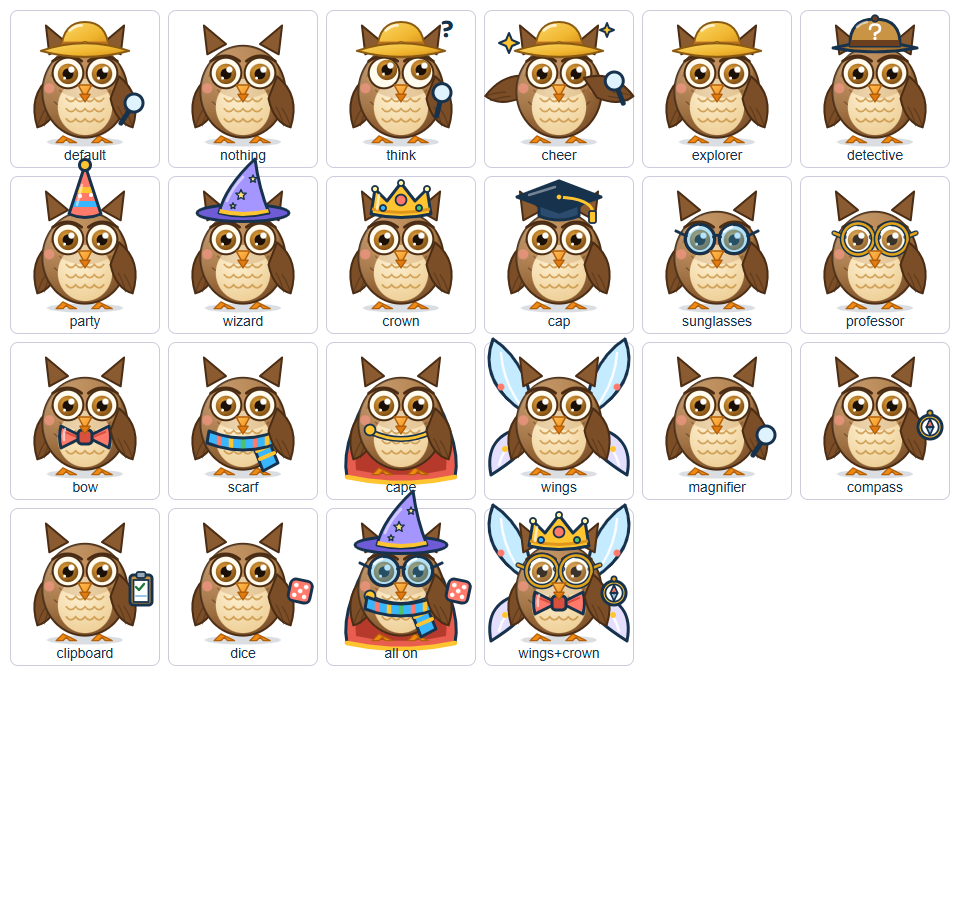
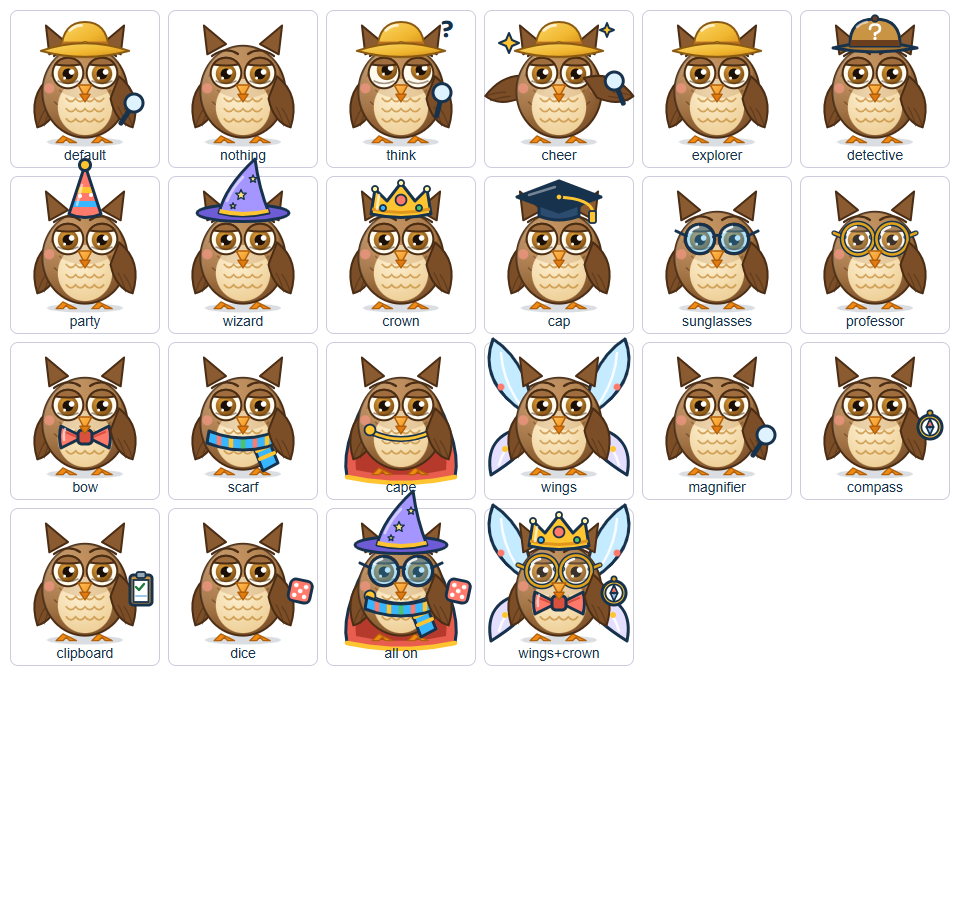
Part 59p+: Pip gets friendly eyes (small eyelids, a smiling line, lighter brows)
- js/pip.js: resting upper eyelids, a soft line under each eye, lighter and
  higher eyebrows; blink, moods and all 16 outfits unchanged (contact sheet).
- docs/design/screens/after/pip-eye-versions.png: the four versions compared.

diff --git a/js/pip.js b/js/pip.js
@@ -48,7 +48,12 @@ const BODY_FEATHERS = [[29.4, 86.9], [39.6, 97.1], [70.2, 97.1], [80.4, 86.9], [
   .map(([x, y]) => feather(x, y)).join(' ');
 const BELLY_FEATHERS = (y) => `M41.3 ${y} q4.7 6 9.35 0 q4.7 6 9.35 0 q4.7 6 9.35 0 q4.7 6 9.35 0`;
 // One eye: the iris and pupil (in .pip-pupils, so they can look up) are drawn separately.
-const iris = (cx) => `<circle cx="${cx}" cy="58.9" r="10.2" fill="url(#ds-pip-iris)"/><circle class="pip-pupil" cx="${cx}" cy="58.9" r="5.4" fill="#1B1008"/><circle class="pip-shine" cx="${cx + 3.4}" cy="54.6" r="3.1" fill="#fff"/><circle cx="${cx - 3.4}" cy="63.1" r="1.4" fill="#fff"/>`;
+const iris = (cx) => `<circle cx="${cx}" cy="58.9" r="10.2" fill="url(#ds-pip-iris)"/><circle class="pip-pupil" cx="${cx}" cy="58.9" r="5.4" fill="#1B1008"/><circle class="pip-shine" cx="${cx + 3.6}" cy="57" r="2.8" fill="#fff"/><circle cx="${cx - 3.4}" cy="63.1" r="1.4" fill="#fff"/>`;
+// Friendly eyes (Habiba, 10 Nov 2026: wide-open eyes looked like a stare):
+// a small resting upper eyelid over the top of each eye, and a soft "smiling"
+// line under it. Bigger lids looked grumpy or sleepy (four versions compared).
+// The blink lids (.pip-lids) still close over them.
+const eyelid = (cx) => `<path d="M${cx - 12.7} 49.5 A15.3 15.3 0 0 1 ${cx + 12.7} 49.5 Q${cx} 51.5 ${cx - 12.7} 49.5Z" fill="#A06E3E" ${LINE}/><path d="M${cx - 10} 66 Q${cx} 71 ${cx + 10} 66" stroke="#4A2D14" stroke-width="1.6" fill="none" stroke-linecap="round" opacity=".5"/>`;
 const WING_LEFT = `<path d="M26 61.4 Q2.2 80.1 12.4 112.4 Q29.4 107.3 34.5 83.5Z" fill="#7C4E27" ${LINE}/><path d="M12.4 112.4 Q15.8 100.5 20.9 93.7 M19.2 110.7 Q22.6 98.8 26.9 92" ${SOFT}/>`;
 const WING_RIGHT = `<path d="M94 61.4 Q117.8 80.1 107.6 112.4 Q90.6 107.3 85.5 83.5Z" fill="#7C4E27" ${LINE}/><path d="M107.6 112.4 Q104.2 100.5 99.1 93.7 M100.8 110.7 Q97.4 98.8 93.1 92" ${SOFT}/>`;
 
@@ -73,11 +78,12 @@ export function pipSVG(label = '', outfit = currentOutfit()) {
     <circle class="pip-eye" cx="43" cy="58" r="15.3" fill="#FFFBEF" ${LINE}/>
     <circle class="pip-eye" cx="77" cy="58" r="15.3" fill="#FFFBEF" ${LINE}/>
     <g class="pip-pupils">${iris(43)}${iris(77)}</g>
+    <g class="pip-eyelids">${eyelid(43)}${eyelid(77)}</g>
     <g class="pip-lids">
       <ellipse cx="43" cy="58" rx="16" ry="16" fill="#9A6A3A" ${LINE}/>
       <ellipse cx="77" cy="58" rx="16" ry="16" fill="#9A6A3A" ${LINE}/>
     </g>
-    <path class="pip-brows" d="M27.7 46.1 Q43 35.9 56.6 46.1 M63.4 46.1 Q77 35.9 92.3 46.1" stroke="#4A2D14" stroke-width="2.9" fill="none" stroke-linecap="round"/>
+    <path class="pip-brows" d="M29 41 Q43 31 55 39 M65 39 Q77 31 91 41" stroke="#4A2D14" stroke-width="2.2" fill="none" stroke-linecap="round"/>
     <circle class="pip-blush" cx="24.3" cy="73.3" r="5.1" fill="#FF9A8B" opacity=".6"/>
     <circle class="pip-blush" cx="95.7" cy="73.3" r="5.1" fill="#FF9A8B" opacity=".6"/>
     ${layer(outfit, 'neck')}

diff --git a/docs/project-notes.md b/docs/project-notes.md
@@ -277,7 +277,8 @@ Parts 42 to 51. Claude commits each part; nothing is pushed until Habiba says "p
 | 59f | 10 Nov | `5bb059b` `1b2a7ba` | **Evidence Board = a detective office:** purple walls, a corkboard with three notes (Claim, Proof, Sure?) joined by red string, a desk with a paper and a magnifier, a plant; 3 dust specks. Sara writes. Left out: the hanging purple lamp (top bar, as in 59c). **Evidence Board unchanged:** no clue tray, and the stamp still says "Checked!" (the mockup's "Ready to share!" would be a content change; scene only, as agreed). Speed (CPU 4x slower): 37 to 46 fps with the scene, 39 to 52 without; the main thread is 71 to 96% busy either way, so the room itself is heavy (open item, section 7). No logic, log or content change. |
 | 59g | 10 Nov | `9b26902` | **Start page in the look of `docs/design/datascope-welcome-ui.html`** (Habiba asked for this design instead of the 6 doors, so there are no doors). The school yard behind the page (`js/scenes/schoolyard.js`: sky, hills with trees, the school, a fence, grass with a path, a big tree); only 3 clouds drift and the school flag waves. Left out (Round 4 and Part 59 rule): the sun, birds, butterfly, flowers, swaying grass and tree, the clock on the school; and the panel's background blur (slow). Sara cheers beside big Pip (his outfit, cheering), "Dress Pip" under them; on the right a light panel: Pip's hello with a tail, the title, and the code card. **Code box (content change):** empty: "Type your code first. It is on the card from your teacher."; wrong: "Hmm, that code does not look right. Check each letter and number, then try again." (was "Codes look like OWL-07 ..."); right: a green tick and "Welcome, explorer CODE! Pip is so happy to see you." Code rules, saving, the story and the Wardrobe intro unchanged. Fits 1366x768 without scrolling; stacks below 900 px. Not logged. |
 | 59s | 10 Nov | `a1f9b13` | **The story in the look of `docs/design/datascope-story-ui-v2.html`** (same 7 scenes, words, sounds, voice and buttons). Each scene has a place drawn on the stage (school yard: Ask, Plan, Mission; classroom: Collect to Conclude), drawn wider and taller than the stage (`PLACE_AREA`) so it reaches the edges of any window; `classroom(area)`, `schoolyard(area)` and `floor(...area)` can draw wider (the rooms are unchanged). The new Sara (`saraSVG(mood, { story: true })`: bobs, blinks, talks, points) and four new classmates (`kidSVG()`: one in a headscarf, one with glasses; talk, yawn, clap), the new Pip. Props after v2: a thought bubble, the sticky guess note and a tick, desks with speech bubbles then four DATA cards, the graph on the whiteboard (Most kids! / Only 1!, WHAT / HOW MANY pills, word labels), the number cards, a how-sure bar and a rolling 3D die, the Evidence Card with a LIKELY! stamp and confetti, a pretend class and "Your mission!". The trail sits on a white pill. **Not from v2:** sun, birds, flowers, butterfly (Round 4); the camera push-in and film grain (motion and speed rules); "a pretend class of 25" (no class size, 6 Nov); v2's 25-kid graph (its centre number is 8, not 9): the story keeps its own numbers (tested). Speed (CPU 4x slower): 60 fps in the busiest scenes. |
-| 59s+ | 10 Nov | (this commit) | **Sara only in the story (Habiba):** from the Mission scene on, Pip is the main character. Mission scene: no Sara, Pip big in the middle (cheers on the last line). Rooms: no Sara in the left column; big Pip stands there alone and bigger (230 px at 1366), the card stays on the right. Start page: Pip alone and bigger. Tested: no `saraSVG` in the rooms, the start page or the Mission scene. |
+| 59s+ | 10 Nov | `c41c234` | **Sara only in the story (Habiba):** from the Mission scene on, Pip is the main character. Mission scene: no Sara, Pip big in the middle (cheers on the last line). Rooms: no Sara in the left column; big Pip stands there alone and bigger (230 px at 1366), the card stays on the right. Start page: Pip alone and bigger. Tested: no `saraSVG` in the rooms, the start page or the Mission scene. |
+| 59p+ | 10 Nov | (this commit) | **Pip's friendly eyes (Habiba: "he looks kinda scary with those eyes staring"):** a small resting upper eyelid over each eye, a soft smiling line under it, and lighter eyebrows a little higher. Four versions compared (`docs/design/screens/after/pip-eye-versions.png`: big lids looked grumpy or sleepy; C chosen). Blink, wink, look-up and all 16 outfits still work (contact sheet). |
 
 **Decision (Habiba, 10 Nov 2026):** Sara appears only in the story (scenes 1 to 6). Pip is the main character from the Mission scene on, on the start page and in every room.
 
